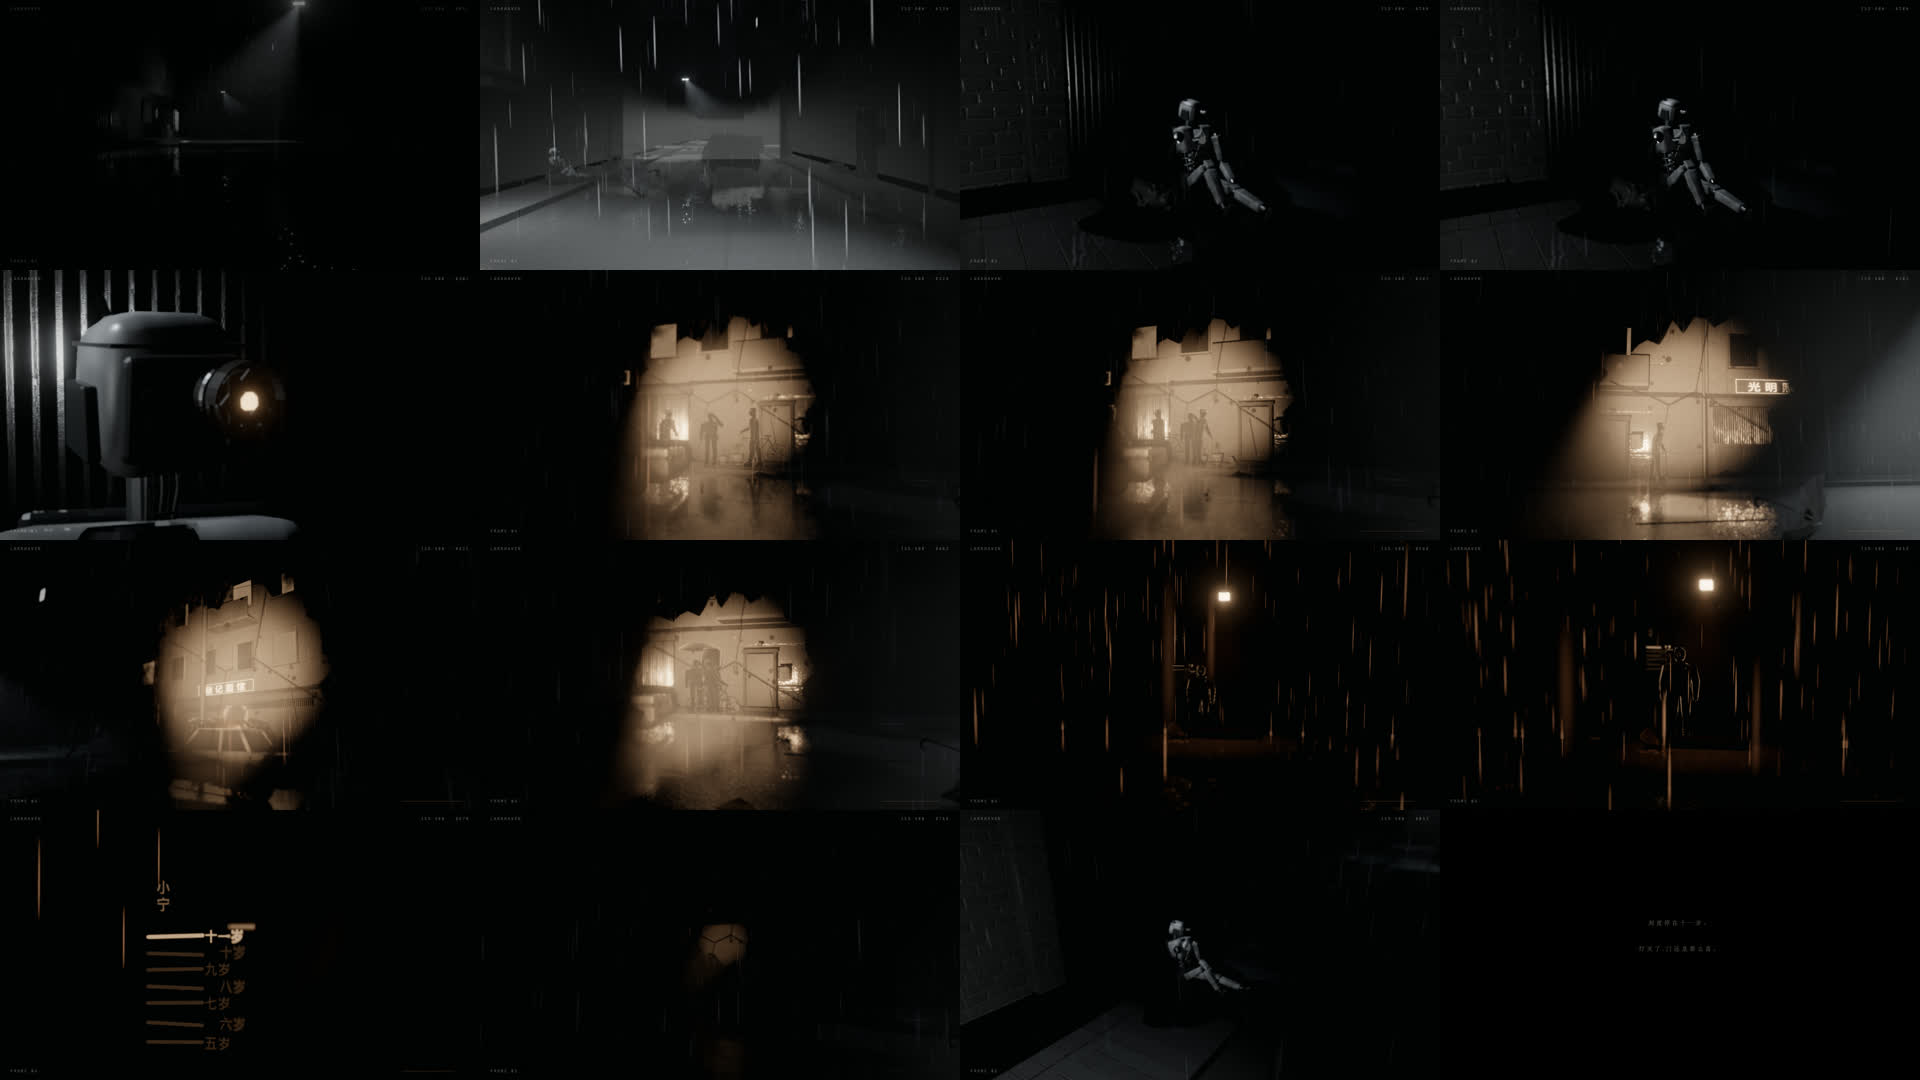
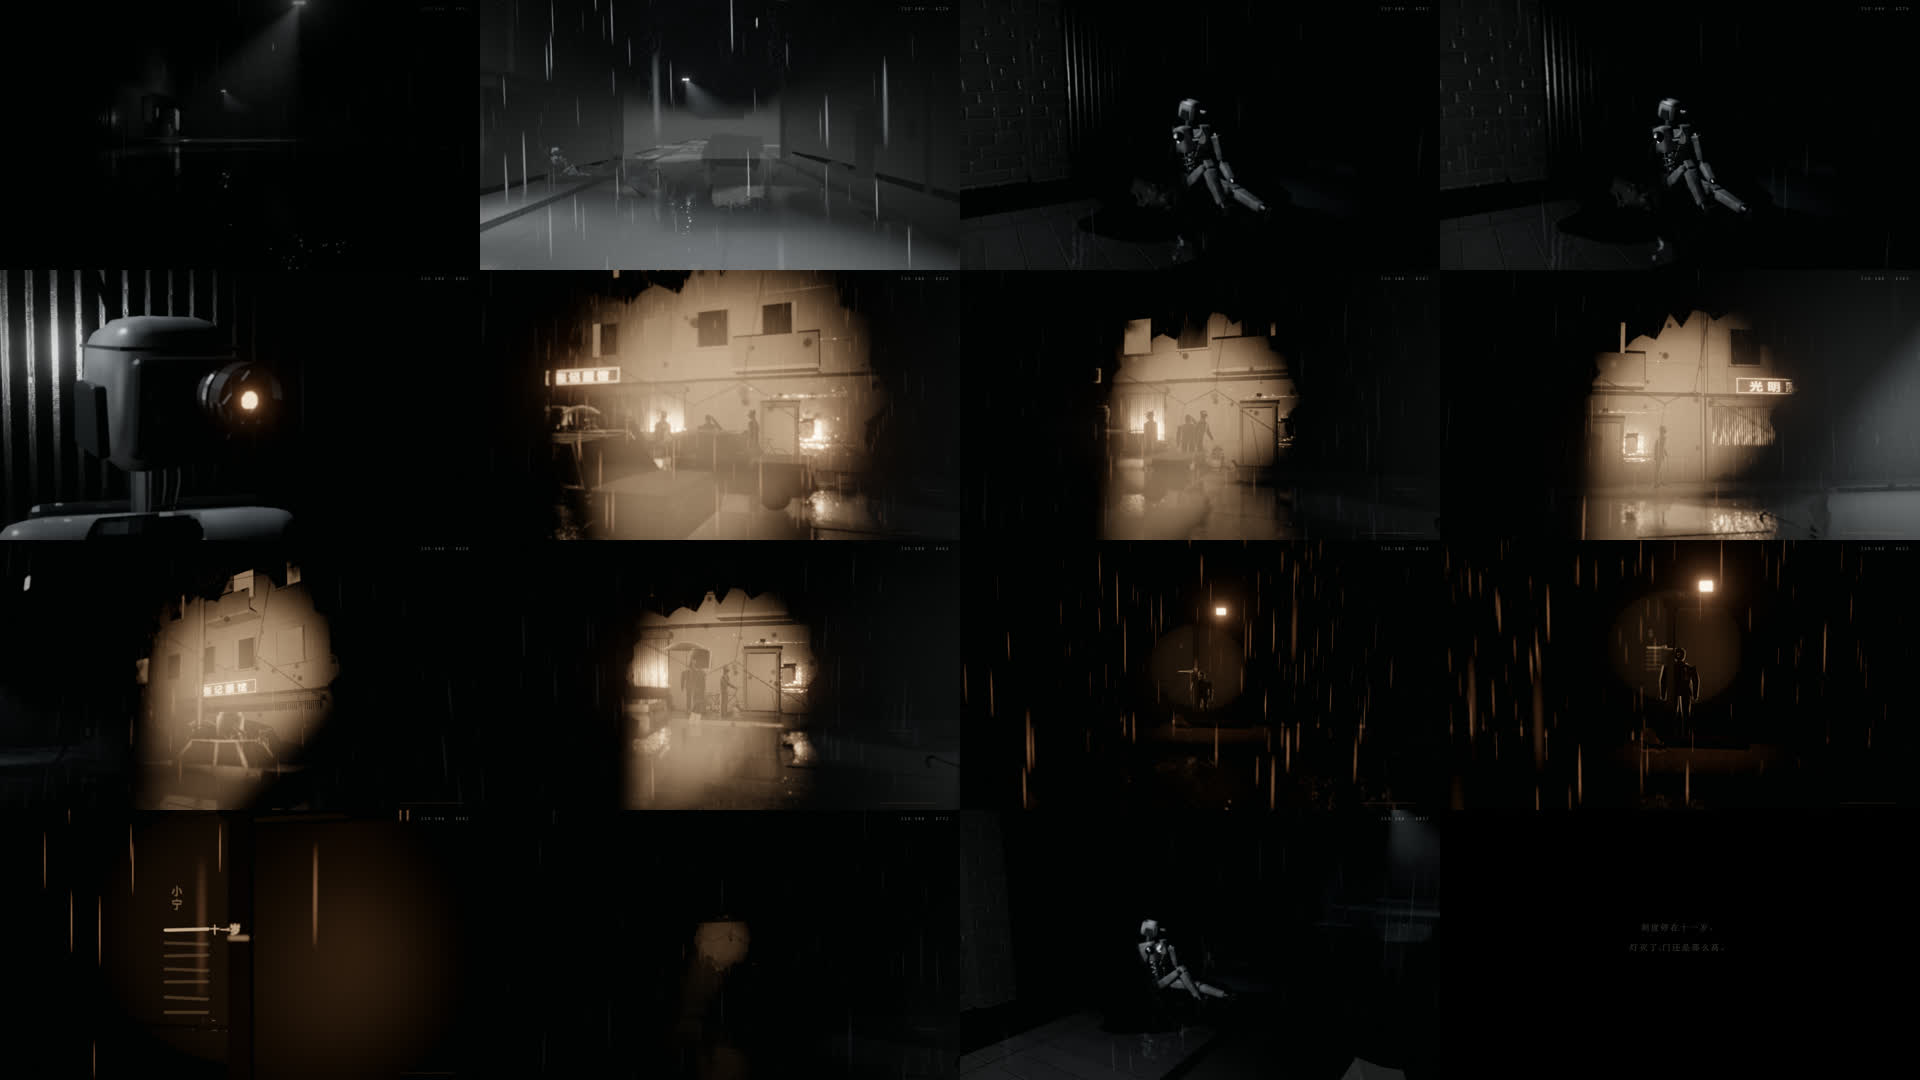
Curator pass (Grok r8): climax keeps the door (narrower first flood, gaze locked after the marks, whole door lit, only this year's age written), eye-height ending, larger end card, no UI labels or cursor, credit on title

diff --git a/src/systems/robot/index.js b/src/systems/robot/index.js
@@ -60,11 +60,11 @@ function makeGobo() {
     if (mode === 'line') {
       // surveyor's level: the eye narrows to a single horizontal line (with a faint double from the crack)
       // a faint fill around the mark so the jamb reads
-      g.fillStyle = 'rgba(255,255,255,0.07)'; g.beginPath(); g.ellipse(0, 0, 60, 50, 0, 0, 7); g.fill();
+      g.fillStyle = 'rgba(255,255,255,0.22)'; g.beginPath(); g.ellipse(0, 0, 110, 90, 0, 0, 7); g.fill(); // the whole door is seen, not just the mark
       // a short level mark, only as wide as the jamb and its pencil lines
-      const lg = g.createLinearGradient(-12, 0, 12, 0);
+      const lg = g.createLinearGradient(-7.5, 0, 7.5, 0); // (cone widened ~1.6x: mark drawn smaller to stay jamb-wide)
       lg.addColorStop(0, 'rgba(255,255,255,0)'); lg.addColorStop(0.25, '#fff'); lg.addColorStop(0.75, '#fff'); lg.addColorStop(1, 'rgba(255,255,255,0)');
-      g.fillStyle = lg; g.fillRect(-12, -1.5, 24, 3);
+      g.fillStyle = lg; g.fillRect(-7.5, -1, 15, 2);
       tex.needsUpdate = true;
       return;
     }
@@ -80,9 +80,9 @@ function makeGobo() {
     for (const [x, y, s, k] of specks) { g.fillStyle = k < 0.8 ? `rgba(0,0,0,${0.25 + k * 0.4})` : 'rgba(255,255,255,0.5)'; g.beginPath(); g.arc(x, y, s, 0, 7); g.fill(); }
     // cracks
     // (the flood throws the whole lens across the street: cracks would become metre-wide bars, so they thin out)
-    g.strokeStyle = `rgba(0,0,0,${0.8 * (1 - 0.8 * flood)})`; g.lineWidth = 2.2;
+    g.strokeStyle = `rgba(0,0,0,${0.8 * (1 - 0.8 * flood)})`; g.lineWidth = 1.2;
     g.beginPath(); g.moveTo(-90, -30); g.lineTo(-20, 5); g.lineTo(15, -12); g.lineTo(100, 40); g.stroke();
-    g.lineWidth = 1.1; g.beginPath(); g.moveTo(-20, 5); g.lineTo(-35, 80); g.moveTo(15, -12); g.lineTo(30, -95); g.moveTo(60, 20); g.lineTo(70, 70); g.stroke();
+    g.lineWidth = 0.7; g.beginPath(); g.moveTo(-20, 5); g.lineTo(-35, 80); g.moveTo(15, -12); g.lineTo(30, -95); g.moveTo(60, 20); g.lineTo(70, 70); g.stroke();
     g.restore();
     tex.needsUpdate = true;
   };
@@ -252,8 +252,11 @@ export default {
       const f = this.floodT;
       flood = Math.max(flood, f < 0.3 ? f / 0.3 : f < 0.8 ? 1 : Math.max(0, 1 - (f - 0.8) / 1.6));
     }
-    coneAngle += (1.35 - coneAngle) * flood;
-    this.spot.angle = ctx.memory.goboMode === 'line' ? 0.05 + 0.03 * o : coneAngle;
+    // the first full opening floods only part of the street (corners stay black, the door stays the climax);
+    // the last breath (director fade, memory.flood) may take the whole street
+    const wide = (ctx.memory.flood ?? 0) > 0 ? 1.35 : 0.72;
+    coneAngle += (wide - coneAngle) * flood;
+    this.spot.angle = ctx.memory.goboMode === 'line' ? 0.08 + 0.05 * o : coneAngle; // wide enough to show the whole door
     // never toggle the light's visibility (changing the light set recompiles every lit material = a visible hitch);
     // just stop re-rendering its shadow map while the eye is shut. The beam volume is kept visible for the first
     // frames (hidden by the black title) so its pipeline is compiled before the eye ever opens.
@@ -269,7 +272,7 @@ export default {
     // ---- publish the memory cone
     const m = ctx.memory;
     m.origin.copy(this._v); m.dir.copy(this._d);
-    m.angle = coneAngle; m.range = 40 + 50 * flood; m.strength = Math.max(o, flood * 0.9); m.floodNow = flood;
+    m.angle = coneAngle; m.range = 40 + 50 * flood; m.strength = Math.max(o, flood * ((ctx.memory.flood ?? 0) > 0 ? 0.9 : 0.5)); m.floodNow = flood;
     syncMemory(m);
   },
 };

diff --git a/src/ui/film.js b/src/ui/film.js
@@ -3,12 +3,12 @@
 export class Film {
   constructor(root) {
     root.innerHTML = `
-      <div class="film-edge top"><span class="fe-l">LARKHAVEN</span><span class="fe-r">ISO 400 · <b class="fe-frame">0000</b></span></div>
+      <div class="film-edge top"><span class="fe-l"></span><span class="fe-r">ISO 400 · <b class="fe-frame">0000</b></span></div>
       <div class="film-edge bottom"><span class="fe-l fe-phase">—</span><span class="fe-power"><i></i></span></div>
       <div class="film-hint"></div>
       <div class="film-black"></div>
-      <div class="film-title"><h1>青 石 巷</h1><p>请戴上耳机</p><small>点击画面开始</small></div>
-      <div class="film-card"><p>刻度停在十一岁。</p><p>灯灭了,门还是那么高。</p><small class="film-replay">点击画面重看</small><small class="film-credit">现场录音:Freesound 与 Wikimedia Commons 的 CC0 录音;远处的狗叫:YleArkisto(CC BY 4.0)。详见 CREDITS.md</small></div>`;
+      <div class="film-title"><h1>青 石 巷</h1><p>请戴上耳机</p><small>点击画面开始</small><small class="film-credit">现场录音来自 Freesound 与 Wikimedia Commons(CC0);远处的狗叫:YleArkisto,CC BY 4.0。出处见 CREDITS.md</small></div>
+      <div class="film-card"><p>刻度停在十一岁。</p><p>灯灭了,门还是那么高。</p><small class="film-replay">点击画面重看</small></div>`;
     this.el = root;
     this.frameEl = root.querySelector('.fe-frame');
     this.hintEl = root.querySelector('.film-hint');
@@ -25,10 +25,12 @@ export class Film {
   power(v, visible) { this.powerBar.style.width = `${(v * 100).toFixed(1)}%`; this.powerEl.classList.toggle('on', visible); }
   phase(name) {
     const label = { arrive: '01', wait: '02', waking: '03', look: '04', fade: '05', end: '06' }[name] || '—';
-    this.phaseEl.textContent = `FRAME ${label}`;
+    this.phaseEl.textContent = ''; // (the phase label read as a UI; the film edge keeps only the counter)
+    void label;
   }
   fade(v) { this.black.style.opacity = v; }
   endCard() { this.card.classList.add('on'); }
-  replayHint() { this.card.classList.add('replay'); }
-  title(on) { this.titleEl.classList.toggle('on', on); }
+  replayHint() { this.card.classList.add('replay'); document.body.classList.remove('playing'); }
+  // the cursor is hidden while the piece plays (the gaze is the cursor); it comes back for the title and replay
+  title(on) { this.titleEl.classList.toggle('on', on); document.body.classList.toggle('playing', !on); }
 }

diff --git a/src/story/director.js b/src/story/director.js
@@ -120,6 +120,8 @@ export default {
         if (!this.moved && (Math.abs(input.pointer.x) > 0.15 || Math.abs(input.pointer.y) > 0.15)) { this.moved = true; this.film.hint(''); }
         // however it was used, the eye goes back to the door before it runs out (its resting gaze is the door)
         if (frag?.state === 'idle' && this.power < 0.35) { this.returning = Math.min(1, (this.returning ?? 0) + dt * 0.25); m.lookOverride = { x: 0, y: 0 }; }
+        // once the marks have been read the eye never leaves the door again: no second shop after the climax
+        if (frag?.state === 'done') m.lookOverride = { x: 0, y: 0 };
         // after the door memory the eye has nothing left: power runs out within ~14 s
         if (frag?.state === 'done') this.power = Math.max(0, this.power - dt / 14);
         else if (robot && robot.open > 0.2 && frag?.state !== 'playing') this.power = Math.max(0, this.power - dt / 150);
@@ -137,14 +139,15 @@ export default {
       }
       case 'end': {
         m.forceOpen = false;
+        // no crane up: stay at eye height and back away along the street, the robot and the cat still in frame
         const u = ease(Math.min(1, this.t / 18));
-        this.cam.pos.set(ROBOT.x + 2.2 + u * 3, 1.4 + u * 7, ROBOT.z + 3 + u * 6);
-        this.cam.look.set(ROBOT.x, 0.6 + u * 0.4, ROBOT.z - u * 2);
-        this.cam.fov = 44;
+        this.cam.pos.set(ROBOT.x + 2.4 + u * 2.2, 1.5, ROBOT.z + 3 + u * 5.5);
+        this.cam.look.set(ROBOT.x + 0.3, 0.75, ROBOT.z - 0.4);
+        this.cam.fov = 44 - u * 6;
         // fully black first, a held beat, then the two lines; replay only on a fresh press once offered
         this.film.fade(Math.min(1, Math.max(0, (this.t - 10) / 6)));
         if (this.t > 17.5) this.film.endCard();
-        if (this.t > 24) this.film.replayHint();
+        if (this.t > 50) this.film.replayHint(); // the card is left alone for a long while
         if (this.t > 24 && (input.wasPressed('Pointer') || input.wasPressed('Space'))) location.reload();
         break;
       }

diff --git a/src/ui/style.css b/src/ui/style.css
@@ -18,13 +18,14 @@ body.shot #ui { display: none; }
 .film-hint.on { opacity: 0.45; }
 .film-black { position: absolute; inset: 0; background: #000; opacity: 0; }
 .film-card { position: absolute; inset: 0; display: flex; flex-direction: column; justify-content: center; align-items: center;
-  font-family: "Songti SC", "Noto Serif SC", serif; font-size: 15px; letter-spacing: 0.4em; line-height: 2.6;
+  font-family: "Songti SC", "Noto Serif SC", serif; font-size: 22px; letter-spacing: 0.18em; line-height: 1.7;
   opacity: 0; transition: opacity 4s; }
-.film-card.on { opacity: 0.8; }
+.film-card p { margin: 0.35em 0; }
+.film-card.on { opacity: 0.92; }
 .film-card .film-replay { opacity: 0; transition: opacity 3s; }
 .film-card.replay .film-replay { opacity: 0.5; }
-.film-card .film-credit { display: block; margin-top: 2.2em; font-size: 10px; letter-spacing: 0.08em; opacity: 0; transition: opacity 3s; }
-.film-card.replay .film-credit { opacity: 0.28; }
+.film-title .film-credit { position: absolute; bottom: 28px; margin: 0; font-size: 10px; letter-spacing: 0.08em; opacity: 0.35; }
+body.playing, body.playing * { cursor: none !important; }
 .film-card small { margin-top: 3em; font-family: "SF Mono", Menlo, monospace; font-size: 9px; letter-spacing: 0.5em; opacity: 0.5; }
 .film-title { position: absolute; inset: 0; display: flex; flex-direction: column; justify-content: center; align-items: center;
   font-family: "Songti SC", "Noto Serif SC", serif; font-size: 14px; letter-spacing: 0.6em; opacity: 0; transition: opacity 2.5s; z-index: 2; }

diff --git a/src/story/fragment.js b/src/story/fragment.js
@@ -31,7 +31,7 @@ function marksTexture(count) {
       const y = 1024 - (m.y / 2.12) * 1024;
       g.globalAlpha = i === n - 1 ? 1 : 0.28;
       g.beginPath(); g.moveTo(14, y); g.lineTo(118, y + (i % 2 ? 3 : -2)); g.stroke();
-      g.fillText(m.label, i % 2 ? 150 : 122, y + 8); // alternate columns: the marks are only 6-7 cm apart
+      if (i === n - 1) g.fillText(m.label, 122, y + 8); // only this year's age is written; the old ones are just pencil lines
     });
     g.globalAlpha = 1; tex.needsUpdate = true;
   };
